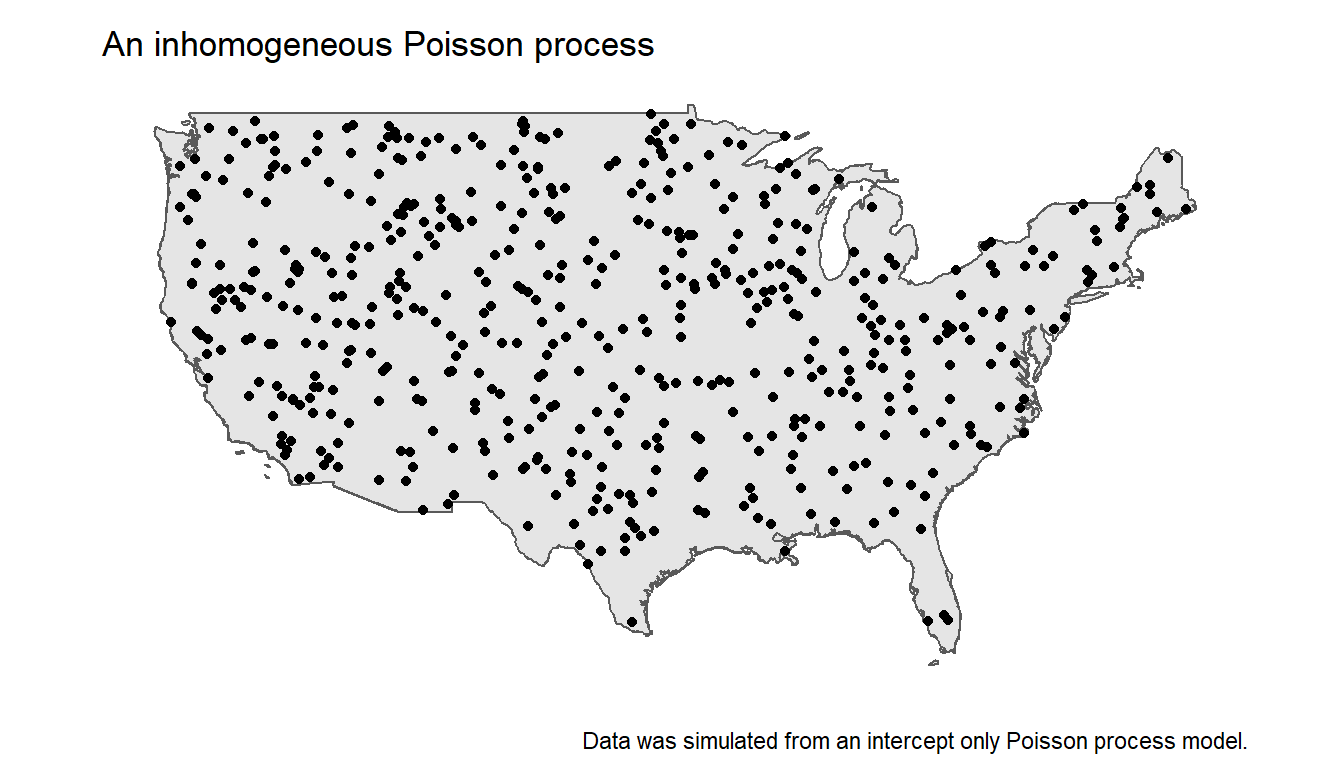
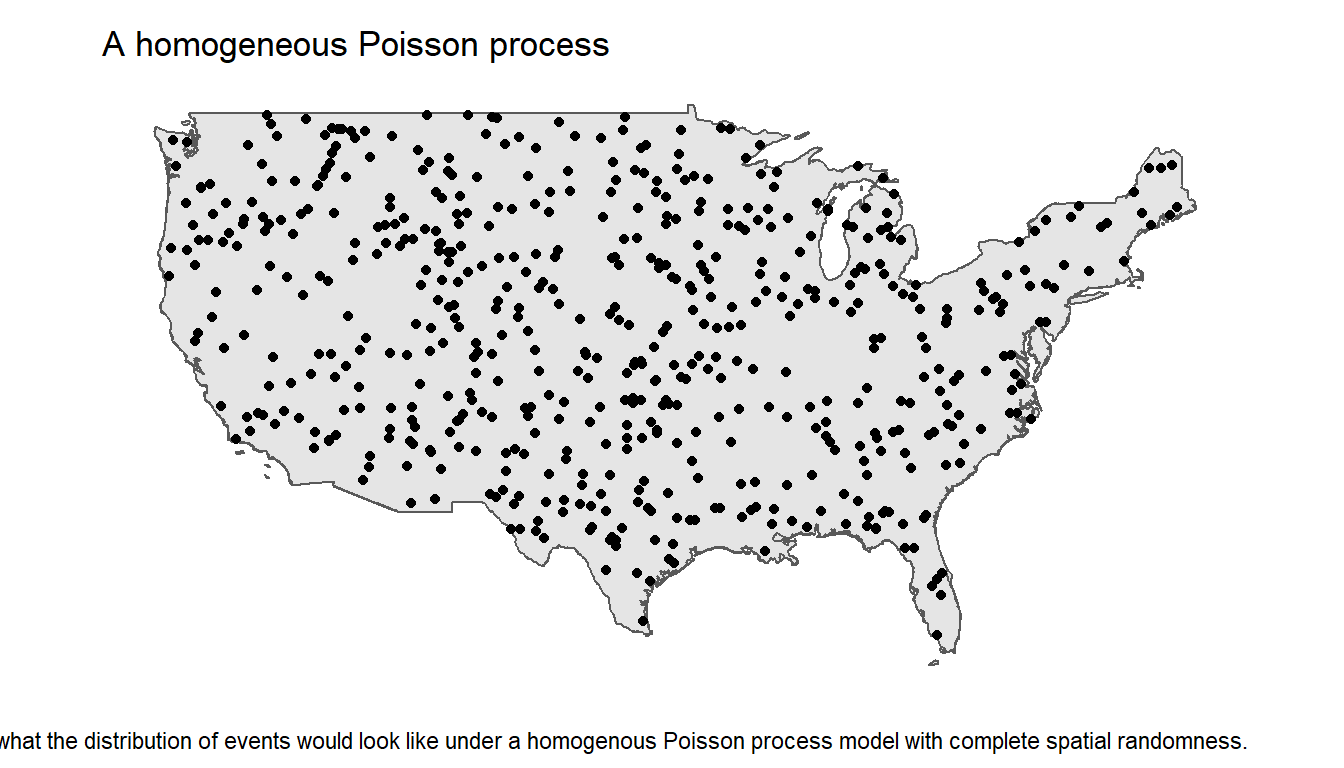
Changing plot to homogeneous (not imhomogeneous)

diff --git a/matern-spatial.html b/matern-spatial.html
@@ -14,7 +14,7 @@
 
 <title>Spatial modeling of school shootings as a Matern clustered point process</title>
 
-<script src="site_libs/header-attrs-2.12/header-attrs.js"></script>
+<script src="site_libs/header-attrs-2.11/header-attrs.js"></script>
 <script src="site_libs/jquery-3.6.0/jquery-3.6.0.min.js"></script>
 <meta name="viewport" content="width=device-width, initial-scale=1" />
 <link href="site_libs/bootstrap-3.3.5/css/cosmo.min.css" rel="stylesheet" />
@@ -68,7 +68,6 @@
 
 
 
-
 <style type = "text/css">
 .main-container {
   max-width: 940px;
@@ -89,9 +88,6 @@ button.code-folding-btn:focus {
 }
 summary {
   display: list-item;
-}
-details > summary > p:only-child {
-  display: inline;
 }
 pre code {
   padding: 0;
@@ -244,7 +240,7 @@ $(document).ready(function () {
 <div class="navbar navbar-default  navbar-fixed-top" role="navigation">
   <div class="container">
     <div class="navbar-header">
-      <button type="button" class="navbar-toggle collapsed" data-toggle="collapse" data-bs-toggle="collapse" data-target="#navbar" data-bs-target="#navbar">
+      <button type="button" class="navbar-toggle collapsed" data-toggle="collapse" data-target="#navbar">
         <span class="icon-bar"></span>
         <span class="icon-bar"></span>
         <span class="icon-bar"></span>
@@ -257,7 +253,7 @@ $(document).ready(function () {
   <a href="about_me.html">About Me</a>
 </li>
 <li class="dropdown">
-  <a href="#" class="dropdown-toggle" data-toggle="dropdown" role="button" data-bs-toggle="dropdown" aria-expanded="false">
+  <a href="#" class="dropdown-toggle" data-toggle="dropdown" role="button" aria-expanded="false">
     Portfolio
      
     <span class="caret"></span>
@@ -284,7 +280,7 @@ $(document).ready(function () {
   </ul>
 </li>
 <li class="dropdown">
-  <a href="#" class="dropdown-toggle" data-toggle="dropdown" role="button" data-bs-toggle="dropdown" aria-expanded="false">
+  <a href="#" class="dropdown-toggle" data-toggle="dropdown" role="button" aria-expanded="false">
     Contact Me
      
     <span class="caret"></span>

diff --git a/site_libs/header-attrs-2.11/header-attrs.js b/site_libs/header-attrs-2.11/header-attrs.js
@@ -1,0 +1,12 @@
+// Pandoc 2.9 adds attributes on both header and div. We remove the former (to
+// be compatible with the behavior of Pandoc < 2.8).
+document.addEventListener('DOMContentLoaded', function(e) {
+  var hs = document.querySelectorAll("div.section[class*='level'] > :first-child");
+  var i, h, a;
+  for (i = 0; i < hs.length; i++) {
+    h = hs[i];
+    if (!/^h[1-6]$/i.test(h.tagName)) continue;  // it should be a header h1-h6
+    a = h.attributes;
+    while (a.length > 0) h.removeAttribute(a[0].name);
+  }
+});

diff --git a/site_libs/navigation-1.1/codefolding.js b/site_libs/navigation-1.1/codefolding.js
@@ -34,9 +34,7 @@ window.initializeCodeFolding = function(show) {
     showCodeButton.append(showCodeText);
     showCodeButton
         .attr('data-toggle', 'collapse')
-        .attr('data-bs-toggle', 'collapse') // BS5
         .attr('data-target', '#' + id)
-        .attr('data-bs-target', '#' + id)   // BS5
         .attr('aria-expanded', showThis)
         .attr('aria-controls', id);
 
